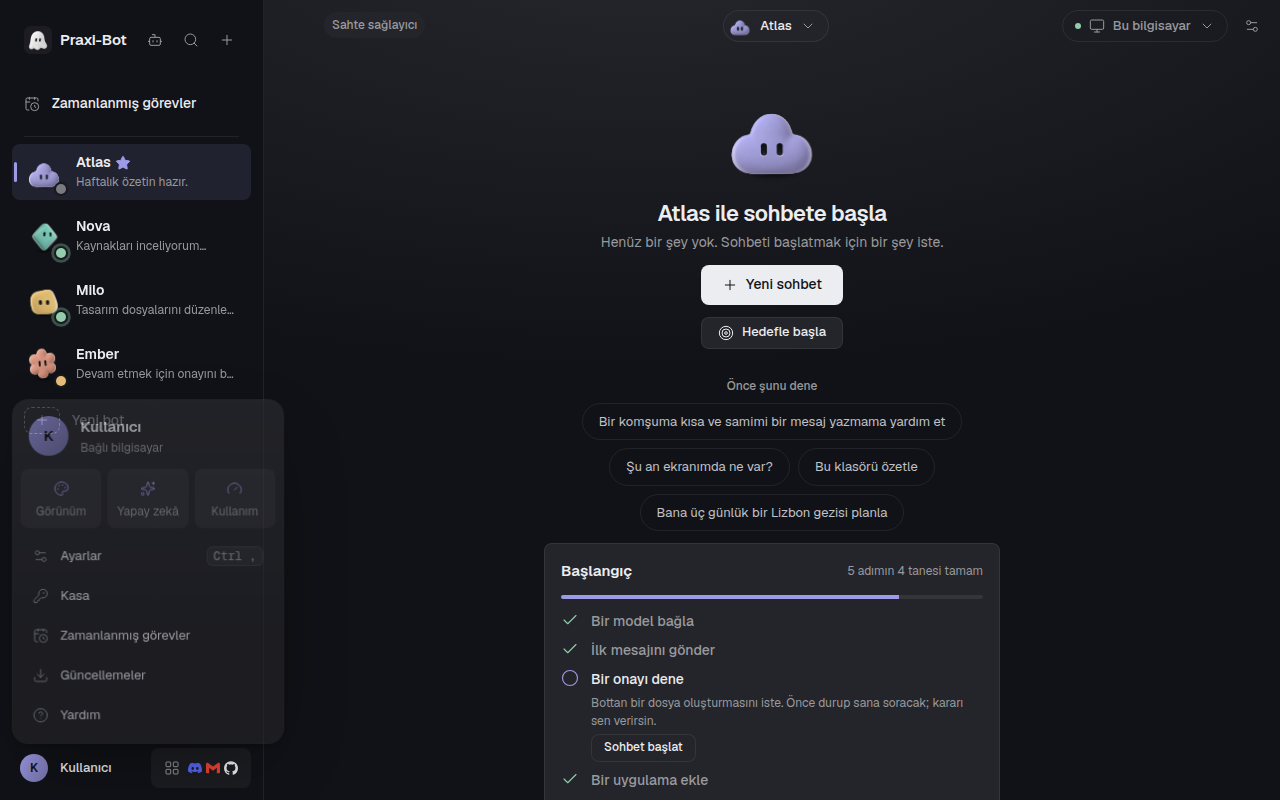
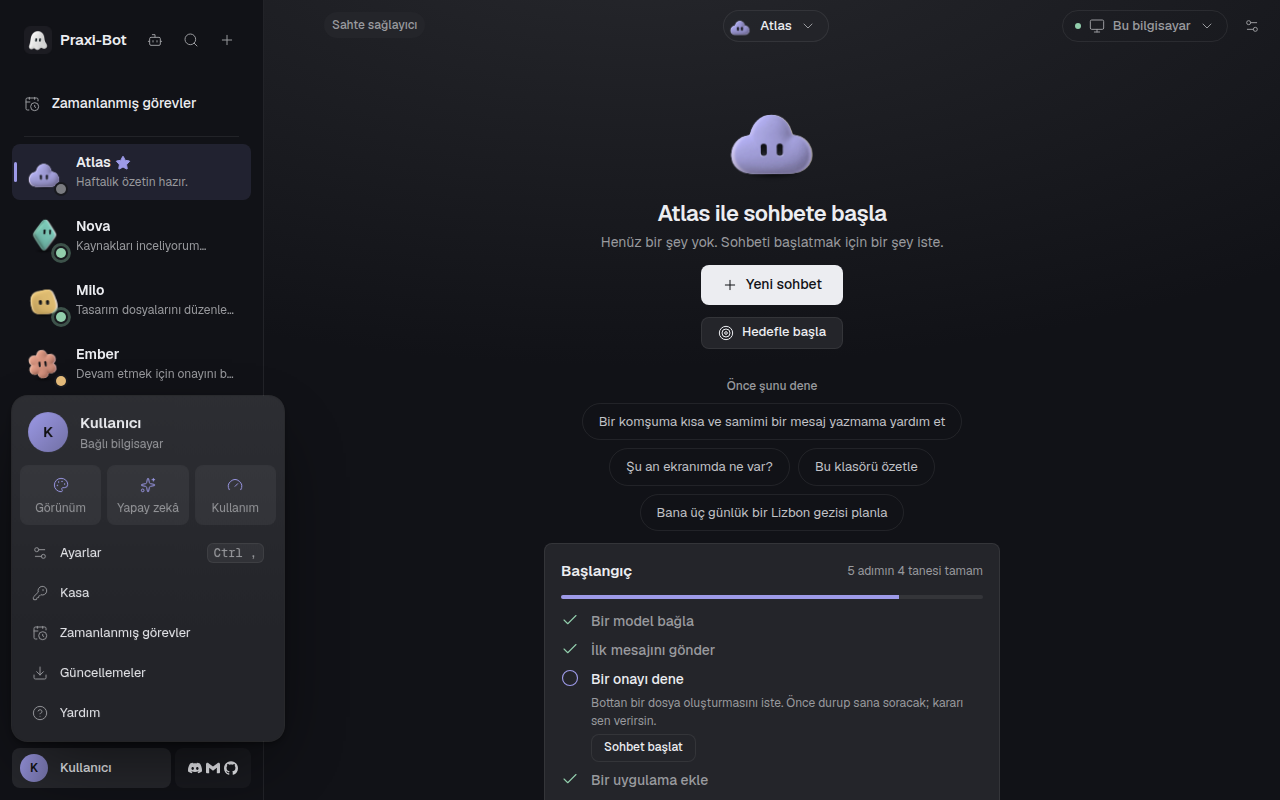
fix(ui): address Antigravity review on u16 rail Apps pill
Honour BrandMark monochrome on the rail previews, hide the grid icon from medium up, drop dead MCP wiring for Apps, and tune tier hover/active plus wide-only Apps label.

diff --git a/apps/desktop/ui/src/components/AppsPill.module.css b/apps/desktop/ui/src/components/AppsPill.module.css
@@ -2,7 +2,7 @@
  * The Apps button sits immediately to the right of the profile row (App.module.css .footRow) and keeps
  * its own size there.  What it shows depends on the rail's width tier (data-rail-tier on the rail, see
  * `railTier` in lib/shellLayout.ts): the grid icon on mini and narrow; from medium, three monochrome
- * preview logos (Discord, Gmail, GitHub) in one compact pill; the word "Apps" from large.  The name is
+ * preview logos (Discord, Gmail, GitHub) in one compact pill; the word "Apps" from wide.  The name is
  * always in the tooltip.
  */
 .pill {
@@ -54,7 +54,6 @@
   display: none;
 }
 
-:global([data-rail-tier="large"]) .label,
 :global([data-rail-tier="wide"]) .label {
   display: inline;
 }
@@ -65,16 +64,22 @@
   gap: var(--space-1);
 }
 
-:global([data-rail-tier="medium"]) .pill,
-:global([data-rail-tier="large"]) .pill,
-:global([data-rail-tier="wide"]) .pill {
-  background-color: color-mix(in srgb, var(--color-text) 5%, transparent);
+:global([data-rail-tier="medium"]) :where(.pill),
+:global([data-rail-tier="large"]) :where(.pill),
+:global([data-rail-tier="wide"]) :where(.pill) {
+  background-color: color-mix(in srgb, var(--color-text) 4%, transparent);
 }
 
-:global([data-rail-tier="medium"]) .pill:hover,
-:global([data-rail-tier="large"]) .pill:hover,
-:global([data-rail-tier="wide"]) .pill:hover {
+:global([data-rail-tier="medium"]) :where(.pill:hover),
+:global([data-rail-tier="large"]) :where(.pill:hover),
+:global([data-rail-tier="wide"]) :where(.pill:hover) {
   background-color: var(--state-hover);
+}
+
+:global([data-rail-tier="medium"]) :where(.pill:active),
+:global([data-rail-tier="large"]) :where(.pill:active),
+:global([data-rail-tier="wide"]) :where(.pill:active) {
+  background-color: var(--state-pressed);
 }
 
 :global([data-rail-tier="medium"]) .stack,
@@ -83,9 +88,9 @@
   display: flex;
 }
 
-:global([data-rail-tier="medium"]) .stack ~ .icon,
-:global([data-rail-tier="large"]) .stack ~ .icon,
-:global([data-rail-tier="wide"]) .stack ~ .icon {
+:global([data-rail-tier="medium"]) .icon,
+:global([data-rail-tier="large"]) .icon,
+:global([data-rail-tier="wide"]) .icon {
   display: none;
 }
 

diff --git a/apps/desktop/ui/src/App.tsx b/apps/desktop/ui/src/App.tsx
@@ -57,7 +57,6 @@ import {
   screenPanelStep,
   type SidePanelMode
 } from "./lib/sidePanelState";
-import { useMcp } from "./state/useMcp";
 import { AccountMenu, type AccountAction } from "./components/AccountMenu";
 import { MessageSearch } from "./components/MessageSearch";
 import { botDotStatus, railNavIndex } from "./lib/railNav";
@@ -376,7 +375,6 @@ function AppShell({ deepLinks }: { deepLinks: ReturnType<typeof createDeepLinkDi
   const [newChatError, setNewChatError] = useState<string | null>(null);
   const [searchOpen, setSearchOpen] = useState(false);
   const [searchSeed, setSearchSeed] = useState<SearchRequest | null>(null);
-  const { servers: appServers } = useMcp(true);
   const [helpOpen, setHelpOpen] = useState(false);
   // The offline demo: `null` task = closed. It lives only here, never as a chat.
   const [demo, setDemo] = useState<{ task: DemoTaskId | null } | null>(null);
@@ -1473,7 +1471,7 @@ function AppShell({ deepLinks }: { deepLinks: ReturnType<typeof createDeepLinkDi
             {import.meta.env.DEV && new URLSearchParams(window.location.search).get("dev") === "1" ? <Button variant="ghost" onClick={handleSimulateBotRun}><FlaskConical />{mini ? null : t("dev.simulateBotRun")}</Button> : null}
             <div className={styles.footRow}>
               <AccountMenu name={settings.accountName} computerTarget={settings.computerTarget} compact={mini} onAction={handleAccountAction} />
-              <AppsPill connected={appServers.filter(s => s.status === "connected").map(s => s.name)} onClick={() => setAppsOpen(true)} />
+              <AppsPill onClick={() => setAppsOpen(true)} />
             </div>
           </SidebarFooter>
         </Sidebar>

diff --git a/apps/desktop/ui/src/components/BrandMark.test.ts b/apps/desktop/ui/src/components/BrandMark.test.ts
@@ -1,0 +1,35 @@
+import assert from "node:assert/strict";
+import { readFileSync } from "node:fs";
+import { test } from "node:test";
+import { brandIcon } from "../lib/brandIcons.ts";
+
+const source = readFileSync(new URL("./BrandMark.tsx", import.meta.url), "utf8");
+
+/** Mirrors BrandMark tone selection (exported only for this contract test). */
+function brandMarkTone(name: string, monochrome: boolean): string {
+  const brand = brandIcon(name);
+  const brightness = (hex: string): number => {
+    const n = parseInt(hex.slice(1), 16);
+    if (Number.isNaN(n)) return 128;
+    return 0.299 * ((n >> 16) & 255) + 0.587 * ((n >> 8) & 255) + 0.114 * (n & 255);
+  };
+  return monochrome || brand.monochrome || !brand.known
+    ? "mono"
+    : brightness(brand.color) > 200
+      ? "light"
+      : brightness(brand.color) < 70
+        ? "dark"
+        : "mid";
+}
+
+test("monochrome prop forces data-tone mono even for coloured preview marks", () => {
+  assert.match(source, /const tone = monochrome \|\| brand\.monochrome \|\| !brand\.known/);
+  for (const name of ["discord", "gmail", "github"]) {
+    assert.equal(brandMarkTone(name, false), name === "github" ? "dark" : "mid", `${name} without monochrome`);
+    assert.equal(brandMarkTone(name, true), "mono", `${name} with monochrome`);
+  }
+});
+
+test("slack multicolour SVG is skipped when monochrome is requested", () => {
+  assert.match(source, /if \(key === "slack" && !monochrome\)/);
+});

diff --git a/apps/desktop/ui/src/lib/shellChrome.test.ts b/apps/desktop/ui/src/lib/shellChrome.test.ts
@@ -50,11 +50,13 @@ test("the Apps button previews Discord, Gmail and GitHub on the rail", () => {
   assert.match(appsPillTsx, /monochrome/);
 });
 
-test("the Apps button: grid icon on a narrow rail, three preview logos from medium, label from large", () => {
+test("the Apps button: grid icon on a narrow rail, three preview logos from medium, label from wide", () => {
   assert.match(appsPillCss, /\.label \{[^}]*display:\s*none/);
-  assert.match(appsPillCss, /\[data-rail-tier="large"\]\) \.label,\s*:global\(\[data-rail-tier="wide"\]\) \.label \{\s*display:\s*inline/);
+  assert.match(appsPillCss, /\[data-rail-tier="wide"\]\) \.label \{\s*display:\s*inline/);
+  assert.doesNotMatch(appsPillCss, /\[data-rail-tier="large"\]\) \.label/);
   assert.match(appsPillCss, /\[data-rail-tier="medium"\]\) \.stack,\s*\n:global\(\[data-rail-tier="large"\]\) \.stack/);
-  assert.match(appsPillCss, /\[data-rail-tier="medium"\]\) \.stack ~ \.icon,\s*\n:global\(\[data-rail-tier="large"\]\) \.stack ~ \.icon/);
+  assert.match(appsPillCss, /\[data-rail-tier="medium"\]\) \.icon,\s*\n:global\(\[data-rail-tier="large"\]\) \.icon/);
+  assert.doesNotMatch(appsPillCss, /\.stack ~ \.icon/);
   assert.match(block(appsPillCss, ".pill"), /white-space:\s*nowrap/);
 });
 

diff --git a/apps/desktop/ui/src/components/BrandMark.tsx b/apps/desktop/ui/src/components/BrandMark.tsx
@@ -14,7 +14,7 @@ export function BrandMark({ name, size = 16, monochrome = false }: { name: strin
   const brand = brandIcon(name);
   const key = name.toLowerCase().replace(/[^a-z]/g, "");
   const style = { "--brand-color": brand.color, width: size, height: size } as CSSProperties;
-  const tone = brand.monochrome || !brand.known ? "mono" : brightness(brand.color) > 200 ? "light" : brightness(brand.color) < 70 ? "dark" : "mid";
+  const tone = monochrome || brand.monochrome || !brand.known ? "mono" : brightness(brand.color) > 200 ? "light" : brightness(brand.color) < 70 ? "dark" : "mid";
   const accessible = { role: "img", "aria-label": brand.name };
 
   if (MULTICOLOR.includes(key) && !monochrome) {
@@ -31,7 +31,7 @@ export function BrandMark({ name, size = 16, monochrome = false }: { name: strin
       </span>
     );
   }
-  if (key === "slack") {
+  if (key === "slack" && !monochrome) {
     return (
       <span className={styles.mark} style={style} {...accessible}>
         <svg viewBox="0 0 24 24">

diff --git a/apps/desktop/ui/src/components/AppsPill.tsx b/apps/desktop/ui/src/components/AppsPill.tsx
@@ -7,7 +7,7 @@ import styles from "./AppsPill.module.css";
 const RAIL_PREVIEW_MARKS = ["discord", "gmail", "github"] as const;
 
 /** Apps button right of the profile row: grid icon on the icon rail; three preview logos from medium up. */
-export function AppsPill({ onClick }: { connected?: readonly string[]; onClick: () => void }) {
+export function AppsPill({ onClick }: { onClick: () => void }) {
   const { t } = useTranslation();
   const label = t("sidebar.apps");
   return (
